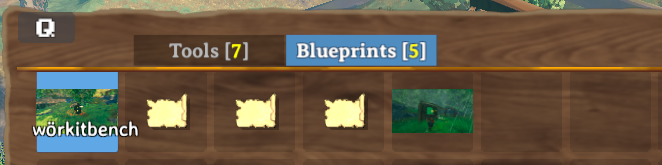
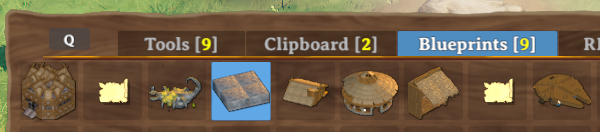
update readme

diff --git a/README.md b/README.md
@@ -1,18 +1,18 @@
-# PlanBuild - Blueprint Edition
+# PlanBuild
 
-PlanBuild enables you to plan, copy and share your building creations in Valheim with ease.
+PlanBuild enables you to plan, copy and share your building creations in Valheim with ease. The mod adds two new tools to the game. The __Plan Hammer__ is used to plan your creations before actually gathering all the materials. When you are happy with your build, you can add the required building materials one by one or use a custom totem to automatically build the pieces for you. The __Blueprint Rune__ lets you copy, save or delete your creations as a single building piece which can also be shared with other players using the mod and also includes terrain modification tools for quick and more precise terraforming without using the Hoe or Cultivator.
 
-![BlueprintRune](https://raw.githubusercontent.com/sirskunkalot/PlanBuild/master/PlanBuildUnity/Assets/Blueprints/Icons/BlueprintRuneIcon.png)
-
-Introducing a new item, the __Blueprint Rune__, which can be crafted from a single stone and festering willpower given to you by the gods. The rune comes with two modes you can switch between by pressing __P__ while having the rune equipped (can be adjusted via config file).
-
-## Planning mode
+## Planning Mode
 
 ![Plan mode](https://raw.githubusercontent.com/sirskunkalot/PlanBuild/master/PlanBuild/resources/PlanMode.png)
 
+Introducing a new item, the __Plan Hammer__, which can be crafted from a single log of __wood__ and the blessing of Odin shining upon you.
+
+![PlanHammer](https://raw.githubusercontent.com/sirskunkalot/PlanBuild/master/PlanBuildUnity/Assets/PlanBuild/Icons/plan_hammer.png)
+
 Plan the construction of pieces without the need to gather the resources first. Anyone can add the required resources to the planned structure later and finish the construction after it was placed.
 
-The __Blueprint Rune__ is compatible with custom piece tables from other mods. All custom pieces will be incorporated into the runes table for the planned pieces. You still need a __Hammer__ and the required crafting station to finish the construction.
+The __Plan Hammer__ is compatible with custom piece tables from other mods. All custom pieces will be incorporated into the runes table for the planned pieces. You still need a __Hammer__ and the required crafting station to finish the construction.
 
 Planned pieces that are __unsupported__ can not be finished. These pieces are also slightly more transparent so you can see what is and isn't supported. The planned pieces themselves do not require support, so you can build forever (if you can reach far enough).
 
@@ -26,7 +26,7 @@ Build a __Plan Totem__ near your planned structures to be able to add resources 
 
 It will also protect existing structures. Any piece that is destroyed _(not removed by the Hammer)_ will be replaced with a plan for that same piece in the same place!
 
-This needs to be built with the vanilla Hammer tool and costs you __5 Fine Wood__, __5 Grey Dwarf Eye__ and __1 Surtling Core__.
+This needs to be built with the vanilla Hammer tool and costs you __1 Wood__ and __1 Grey Dwarf Eye__.
 
 ### Skuld Crystal
 
@@ -34,13 +34,17 @@ This needs to be built with the vanilla Hammer tool and costs you __5 Fine Wood_
 
 Includes the __Skuld Crystal__, a wearable item that removes the shader effect from the blueprints, so you can see what the construction will look like when completed.
 
-Create it by combining a __Ruby__ and a __Grey Dwarf Eye__.
+Create it from a single __Grey Dwarf Eye__.
 
 __Watch your step!__ The pieces are still not really there, and will not support you!
 
-## Blueprint mode
+## Blueprint Mode
 
 ![Blueprint mode](https://raw.githubusercontent.com/sirskunkalot/PlanBuild/master/PlanBuild/resources/BlueprintMode.png)
+
+Introducing a new item, the __Blueprint Rune__, which can be crafted from a single __stone__ and festering willpower given to you by the gods.
+
+![BlueprintRune](https://raw.githubusercontent.com/sirskunkalot/PlanBuild/master/PlanBuildUnity/Assets/Blueprints/Icons/BlueprintRuneIcon.png)
 
 Copy existing structures into __Blueprints__ and rebuild them as planned or regular pieces all at once. The blueprints are saved in and loaded from the filesystem as __.blueprint__ files. Also supports __.vbuild__ files (you can load and build your BuildShare saves with this mod)! After switching to the blueprint mode, the piece table of the Blueprint Rune offers two different categories:
 
@@ -48,32 +52,36 @@ Copy existing structures into __Blueprints__ and rebuild them as planned or regu
 
 ![Blueprint tools](https://raw.githubusercontent.com/sirskunkalot/PlanBuild/master/PlanBuild/resources/BlueprintTools.png)
 
-The Blueprint Rune comes with a handful of tools to aid handling blueprint creation and building. All terrain tools can be disabled via server side enforced configuration. Here is a handy list:
-
-* __Create new blueprint:__ Create a blueprint of a construction. Planned pieces are captured as real pieces. 
-  * Press __Ctrl__ to see what pieces are currently selected. 
-  * Use the __Scroll Wheel__ to change the capture radius. 
-  * Use __Shift + Scroll__ to adjust the camera distance.
+The Blueprint Rune comes with a handful of tools handle blueprint creation and terraforming. 
 
 * __Add to selection__: Add pieces to the current selection. Currently selected pieces will be highlighted in green. Per default only the hovered piece will be added to the selection. You can use various modifiers to change that behaviour.
   * Press __Alt__ to add all connected pieces. This uses a flood fill to find connected pieces.
   * Press __Ctrl__ to add pieces in a radius
   * Use the __Scroll Wheel__ while holding __Ctrl__ to change the selection radius
+  * Press __Alt__ and __Ctrl__ and click to clear selection
+  * Press __Q__ to quickly switch to the "Remove from selection" tool
+  * Use __Shift + Scroll__ to adjust the camera distance.
 
 * __Remove from selection__: Remove pieces from the current selection. Currently selected pieces will be highlighted in green.  Per default only the hovered piece will be removed from the selection. You can use various modifiers to change that behaviour.
   * Press __Alt__ to remove all connected pieces. This uses a flood fill to find connected pieces.
   * Press __Ctrl__ to remove pieces in a radius
   * Use the __Scroll Wheel__ while holding __Ctrl__ to change the selection radius
   * Press __Alt__ and __Ctrl__ and click to clear selection
+  * Press __Q__ to quickly switch to the "Add to selection" tool
+  * Use __Shift + Scroll__ to adjust the camera distance.
 
-* __Save selection__: Click to save the current selection to a blueprint
+* __Edit selection__: Left click to open a menu. From here you can choose what to do with your current selection:
+  * __Copy__: Make a temporary blueprint of your current selection. It will copy all pieces in the selection into a new building piece and automatically select that piece for you to build. The copy is also saved into the "Clipboard" category of the rune for you to access until you log out from the current world.
+  * __Copy with vanilla SnapPoints__: Make a temporary blueprint of your current selection which also includes all vanilla snap points of the pieces selected.
+  * __Save__: Save the current selection as a new blueprint into the file system. These blueprints are kapt between game sessions and can also be used in the marketplace and shared with other players.
+  * __Delete__: Delete all pieces in the current selection. This removes all the pieces without refunding the building materials.
+  * __Cancel__: Exit the menu without any action.
 
 * __Snap point marker:__ Add snap point markers to all points you want to have as snap points in your blueprint. The rotation of the markers does not matter, only the center point. We highly suggest that you also use [Snap points made easy](https://www.nexusmods.com/valheim/mods/299) so you can cycle through the snap points when placing the blueprint.
 
 * __Center point marker:__ Add a center point marker to your blueprint to determine the center of the blueprint. This is where it will be anchored while placing it. If a blueprint does not have a center point marker, a bottom corner of the blueprint is found and used as the center.
 
 * __Remove planned pieces:__ Delete planned pieces again. Per default only the hovered piece will be deleted. But you can use various modifiers to change that behaviour.
-  * Press __Alt__ to delete all plans that are associated with a placed blueprint. Plans that are already finished will not be removed. Resources that were already added to the unfinished plans will be refunded.
   * Press __Ctrl__ to delete plans in a radius, can be used to clean up after using it to measure distances, or as a general cleanup tool. Resources that were already added to the unfinished plans will be refunded.
   * Use the __Scroll Wheel__ while holding __Ctrl__ to change the deletion radius.
   * Use __Shift + Scroll__ to adjust the camera distance.
@@ -96,6 +104,12 @@ The Blueprint Rune comes with a handful of tools to aid handling blueprint creat
   * Use the __Scroll Wheel__ to change the tool radius.
   * Use __Shift + Scroll__ to adjust the camera distance.
 
+### Clipboard
+
+![Blueprint tools](https://raw.githubusercontent.com/sirskunkalot/PlanBuild/master/PlanBuild/resources/BlueprintClipboard.png)
+
+You can find all of the temporary blueprints you make using the "Copy" command of the "Edit Selection" tool here. These are reset on every logout.
+
 ### Blueprints
 
 ![Blueprint tools](https://raw.githubusercontent.com/sirskunkalot/PlanBuild/master/PlanBuild/resources/BlueprintBlueprints.png)
@@ -113,13 +127,27 @@ Place a blueprint as planned pieces. Select your previously saved blueprint and 
 
 ![Blueprint mode](https://raw.githubusercontent.com/sirskunkalot/PlanBuild/master/PlanBuild/resources/BlueprintMarket.png)
 
-Manage and share your blueprints through a custom GUI added to the game. Per default the marketplace is accessible via __End__ key. Rename your local blueprints and add a description to them. If a server has this feature enabled, upload your local blueprints to that server so others can download and build your creations as well. Players with admin rights on a server can also manage the server side list through that interface.
+Manage and share your blueprints through a custom GUI added to the game. Per default the marketplace is accessible via __End__ key. Rename your local blueprints, assign a Category for them (which will create a new tab on your Blueprint rune for those blueprints) or add a description to them. If a server has this feature enabled, upload your local blueprints to that server so others can download and build your creations as well. Players with admin rights on a server can also manage the server side list through that interface.
 
 ### Marketplace Pieces
 
 ![Blueprint pieces](https://raw.githubusercontent.com/sirskunkalot/PlanBuild/master/PlanBuild/resources/BlueprintPieces.png)
 
 You can place one of two new rune themed pieces in the world which provide access to your own blueprints and the market on the server. If you want to completely stop clients from accessing the server blueprints via Hotkey, there is a server enforced config which disables that Hotkey for all clients.
+
+## Installing
+
+It is recommended to use a mod manager to install PlanBuild and all of its dependencies.
+
+If you want to install it manually, load all of these mods as they are all required for PlanBuild to function and install them according to their respective install instructions:
+
+* [BepInExPack for Valheim](https://valheim.thunderstore.io/package/denikson/BepInExPack_Valheim)
+* [HookGenPatcher](https://valheim.thunderstore.io/package/ValheimModding/HookGenPatcher)
+* [Jötunn, the Valheim Library](https://valheim.thunderstore.io/package/ValheimModding/Jotunn)
+
+Finally extract *all* of the contents of the PlanBuild mod archive into ```<Valheim>\BepInEx\plugins\PlanBuild```
+
+It is possible for clients not using PlanBuild to connect to a server using it. Those clients won't see any planned pieces but are still able to play. You can not connect to a server without PlanBuild when the mod is installed on your local game for griefing reasons.
 
 ## Compatibility
 
@@ -128,49 +156,56 @@ Fully compatible with:
 * [Craft from Containers](https://www.nexusmods.com/valheim/mods/40)
 * [ValheimRAFT](https://www.nexusmods.com/valheim/mods/1136)
 
-The Hammer's PieceTable is scanned automatically, mods that add Pieces should be compatible. If you find a mod that adds pieces to the Hammer and they don't show up, try toggling the Blueprint Rune with __P__ which will trigger a rescan. If it still doesn't work, please post a bug report with a link to the mod.
-
-## Installing
-
-Use a mod manager to install, or if you want to install it manually, drop the "PlanBuild" folder into BepInEx\plugins (so you end up with BepInEx\plugins\PlanBuild). Make sure to include all files, not just the DLL!
-
-This mod adds interactable objects, so __all__ clients & server will need this mod!
+The Hammer's PieceTable is scanned automatically, mods that add Pieces should be compatible. If you find a mod that adds pieces to the Hammer and they don't show up, please post a bug report with a link to the mod or join the [Jötunn Discord](https://discord.gg/DdUt6g7gyA) and ping ```@Jules``` or ```@MarcoPogo```.
 
 ## Configuration
 
-A lot aspects of this mod are configurable:
-* General
-    * Show all plans, even for pieces you don't know yet (default __false__)
-    * Build radius of the Plan Totem (default __30__)
-    * Show particle effects when building pieces with the plan totem (default __true__)
-    * Comma separated list of prefab names to exclude from the planned piece table for non-admin players (not browsable via Mod Settings, edit directly or via console commands)
-* Blueprint Market
-    * Allow clients to use the Hotkey to access the marketplace (default __true__)
-    * Allow sharing of blueprints on this server (default __false__)
-* Blueprint Rune
-    * Allow building of blueprints as actual pieces without needing the resources (default __false__)
-    * Allow usage of the terrain modification tools (default __false__)
-    * Place distance of the Blueprint Rune (default __50__)
-    * Show a tooltip with a bigger thumbnail for blueprint pieces (default __true__)
-    * Set the background color for the tooltip on blueprint pieces
-    * Invert and sensitivity options for each input with the scroll wheel
-* Directories
-    * Blueprint search directory (default __.__ (current working directory, usually Valheim game install directory))
-    * Blueprint save directory (default __BepInEx/config/PlanBuild/blueprints__)
-* Keybinds
-    * Hotkey to switch between Blueprint Rune modes (default __P__)
-    * Hotkey for the Blueprint Marketplace GUI (default __End__)
-    * Define the modifier keys for blueprint and terrain tools
-* Visual
-    * Apply plan shader to ghost placement (currently placing piece) (default __false__)
-    * Color of unsupported plan pieces (default __10% white__)
-    * Color of supported plan pieces (default __50% white__)
-    * Additional transparency for finer control (default __30%__)
-    * Color of the glowing lines on the Plan totem (default __cyan__)
+A lot aspects of this mod are configurable either through the config file found in your game folder (```<Valheim>\BepInEx\configs\marcopogo.PlanBuild.cfg```) or using the in-game ```Mod Settings``` in the game's menu:
+* __Server Settings__ (enforced on all clients connecting to a server)
+  * __Allow direct build__: Allow placement of blueprints without materials on this server. Admins are always allowed to use it. (default __false__)
+  * __Allow terrain tools__: Allow usage of the terrain modification tools on this server. Admins are always allowed to use them. (default __false__)
+  * __Allow serverside blueprints__: Allow sharing of blueprints on this server. (default __false__)
+  * __Allow clients to use the GUI toggle key__: Allow clients to use the Hotkey to access server blueprints. Admins are always allowed to use it. (default __true__)
+  * __Excluded plan prefabs__: Comma separated list of prefab names to exclude from the planned piece table on this server. Admins are always allowed to build them.
+* __Blueprints__
+  * __Default build mode__: Default build mode when placing blueprints. (default __Plan__)
+  * __Place distance__: Place distance while using the Blueprint Rune. (default __50__)
+  * __Camera offset increment__: Camera height change when holding the camera modifier key and scrolling. (default __2__)
+  * __Invert camera offset scroll__: Invert the direction of camera offset scrolling. (default __false__)
+  * __Placement offset increment__: Placement height change when holding the modifier key and scrolling. (default __0.1__)
+  * __Invert placement height change scroll__: Invert the direction of placement offset scrolling. (default __false__)
+  * __Selection increment__: Selection radius increment when scrolling. (default __1__)
+  * __Invert selection scroll__: Invert the direction of selection scrolling. (default __false__)
+  * __Selection connected check margin__: Distance of the shell used to check for connectedness. (default __0.01__)
+  * __Show the transform bound grid__: Shows a grid around the blueprints' bounds to visualize the blueprints' edges. (default __false__)
+  * __Tooltip enabled__: Show a tooltip with a bigger thumbnail for blueprint pieces. (default __true__)
+  * __Tooltip Color__: Set the background color for the tooltip on blueprint pieces.
+* __Directories__
+  * __Blueprint search directory__ Base directory to scan (recursively) for blueprints and vbuild files, relative paths are relative to the valheim.exe location (default __.__)
+  * __Save directory__: Directory to save blueprint files, relative paths are relative to the valheim.exe location (default __BepInEx/config/PlanBuild/blueprints__)
+* __Keybindings__
+  * __Blueprint Marketplace GUI toggle key__: Hotkey to show the blueprint marketplace GUI (default __End__)
+  * __ShiftModifier__: First modifier key to change behaviours on various tools (default __LeftShift__)
+  * __CtrlModifier__: Second modifier key to change behaviours on various tools (default __LeftCtrl__)
+  * __AltModifier__: Third modifier key to change behaviours on various tools (default __LeftAlt__)
+  * __Toggle__: Key to switch between modes on various tools. (default __Q__)
+* __Plans__:
+  * __Plan unknown pieces__: Show all plans, even for pieces you don't know yet. (default __false__)
+  * __Plan totem build radius__: Build radius of the plan totem (default __30__)
+  * __Plan totem particle effects__: Show particle effects when building pieces with the plan totem. (default __true__)
+* __Visual__
+  * __Transparent Ghost Placement__: Apply plan shader to ghost placement (currently placing piece). (default __true__)
+  * __Unsupported color__: Color of unsupported plan pieces.
+  * __Supported color__: Color of supported plan pieces.
+  * __Transparency__: Additional transparency for finer control. (default __30%__)
+  * __Plan totem glow color__: Color of the glowing lines on the Plan totem.
     
 ## Console commands
 
 PlanBuild adds some new console commands to the game:
+* __plan.blacklist.print__ - Print out the server's plan blacklist
+* __plan.blacklist.add__ - [prefab_name] Add a prefab to the server's plan blacklist
+* __plan.blacklist.remove__ - [prefab_name] Removes a prefab from the server's plan blacklist
 * __bp.local__ - Get the list of your local blueprints
 * __bp.remove__ - [blueprint_id] Remove a local blueprint
 * __bp.push__ - [blueprint_id] Upload a local blueprint to the current connected server
@@ -178,15 +213,13 @@ PlanBuild adds some new console commands to the game:
 * __bp.pull__ - [blueprint_id] Load a blueprint from the current connected server and add it to your local blueprints
 * __bp.thumbnail__ - [blueprint_id] ([rotation]) Create a new thumbnail for a blueprint from the actual blueprint data, optionally provide additional rotation of the blueprint on the thumbnail
 * __bp.regenthumbnails__ - Create a new thumbnail for all local blueprints
-* __plan.blacklist.print__ - Print out the server's plan blacklist
-* __plan.blacklist.add__ - [prefab_name] Add a prefab to the server's plan blacklist
-* __plan.blacklist.remove__ - [prefab_name] Removes a prefab from the server's plan blacklist
+* __bp.undo__ - Undo your last built blueprint
+* __selection.copy__ - Copy the current selection as a temporary blueprint
+* __selection.copywithsnappoints__ - Copy the current selection as a temporary blueprint including the vanilla snap points
+* __selection.save__ - Save the current selection as a blueprint
+* __selection.delete__ - Delete all prefabs in the current selection
 
-Source available on GitHub: [https://github.com/sirskunkalot/PlanBuild](https://github.com/sirskunkalot/PlanBuild). All contributions welcome!
-
-You can also find us at the [Valheim Modding Discord](https://discord.gg/RBq2mzeu4z) or the [Jötunn Discord](https://discord.gg/DdUt6g7gyA).
-
-## Building community
+## Building Community
 
 Head over to the [Valheimians](https://www.valheimians.com) page to find a community of builders and share your own creations. PlanBuild blueprints are supported.
 
@@ -194,10 +227,16 @@ Head over to the [Valheimians](https://www.valheimians.com) page to find a commu
 
 The original PlanBuild mod was created by __[MarcoPogo](https://github.com/MathiasDecrock)__
 
-Blueprint functionality originally created and merged by __[Algorithman](https://github.com/Algorithman)__ & __[Jules](https://github.com/sirskunkalot)__
+Blueprint functionality originally created by __[Algorithman](https://github.com/Algorithman)__ & __[Jules](https://github.com/sirskunkalot)__
 
 Blueprint Marketplace GUI created by __[Dreous](https://github.com/imcanida)__
 
 All further coding by __[MarcoPogo](https://github.com/MathiasDecrock)__ & __[Jules](https://github.com/sirskunkalot)__
 
 Made with Löve and __[Jötunn](https://github.com/Valheim-Modding/Jotunn)__
+
+## Contact
+
+Source available on GitHub: [https://github.com/sirskunkalot/PlanBuild](https://github.com/sirskunkalot/PlanBuild). All contributions welcome!
+
+You can find us at the [Jötunn Discord](https://discord.gg/DdUt6g7gyA) (```Jules#7950``` and ```MarcoPogo#6095```).
